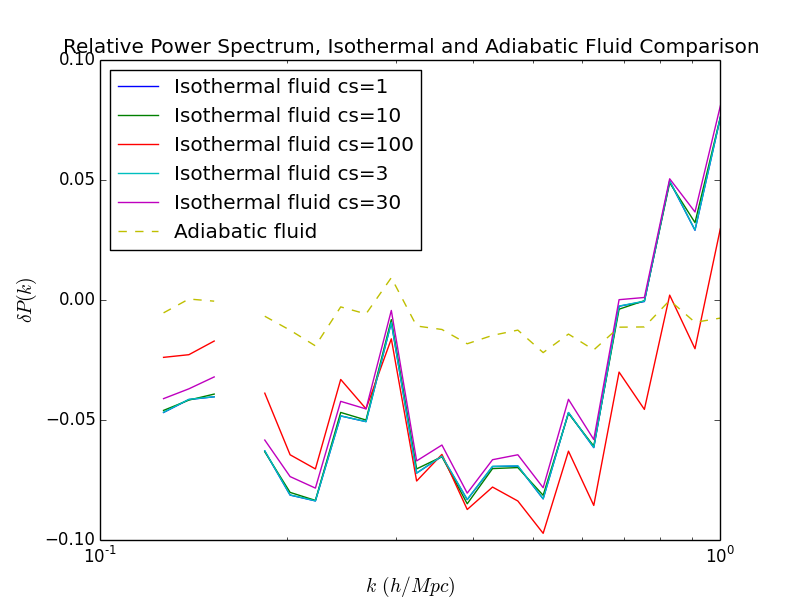
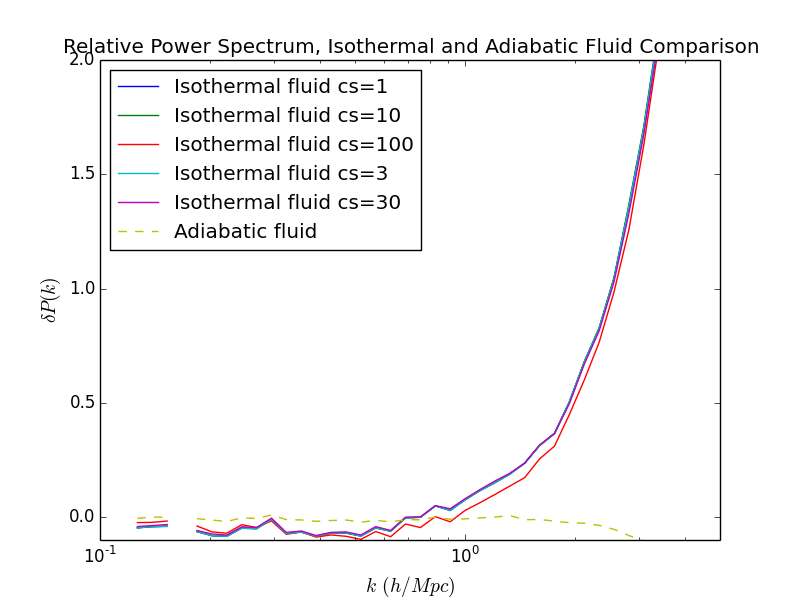
Added parameter files, extended plots out to z=5.

diff --git a/plots/isothermal/isothermal_fluid_low_adiabatic_normalized_particle.py b/plots/isothermal/isothermal_fluid_low_adiabatic_normalized_particle.py
@@ -31,8 +31,8 @@ for simtype in simtypes:
             ps = (ps - ps_base)/ps_base
             plt.semilogx(kvalues, ps, '--', label='Adiabatic fluid')
 
-plt.xlim([1e-1,1e0])
-plt.ylim([-0.1,0.1])
+plt.xlim([1e-1,5e0])
+plt.ylim([-0.1,2])
 plt.xlabel('$k \, (h/Mpc)$', fontsize=14)
 plt.ylabel('$\delta P(k)$', fontsize=14)
 plt.title('Relative Power Spectrum, Isothermal and Adiabatic Fluid Comparison')

diff --git a/plots/isothermal/isothermal_fluid_low_adiabatic_normalized_particle_z10.py b/plots/isothermal/isothermal_fluid_low_adiabatic_normalized_particle_z10.py
@@ -31,7 +31,7 @@ for simtype in simtypes:
             ps = (ps - ps_base)/ps_base
             plt.semilogx(kvalues, ps, '--', label='Adiabatic fluid')
 
-plt.xlim([1e-1,1e0])
+plt.xlim([1e-1,5e0])
 plt.ylim([-0.1,0.1])
 plt.xlabel('$k \, (h/Mpc)$', fontsize=14)
 plt.ylabel('$\delta P(k)$', fontsize=14)
